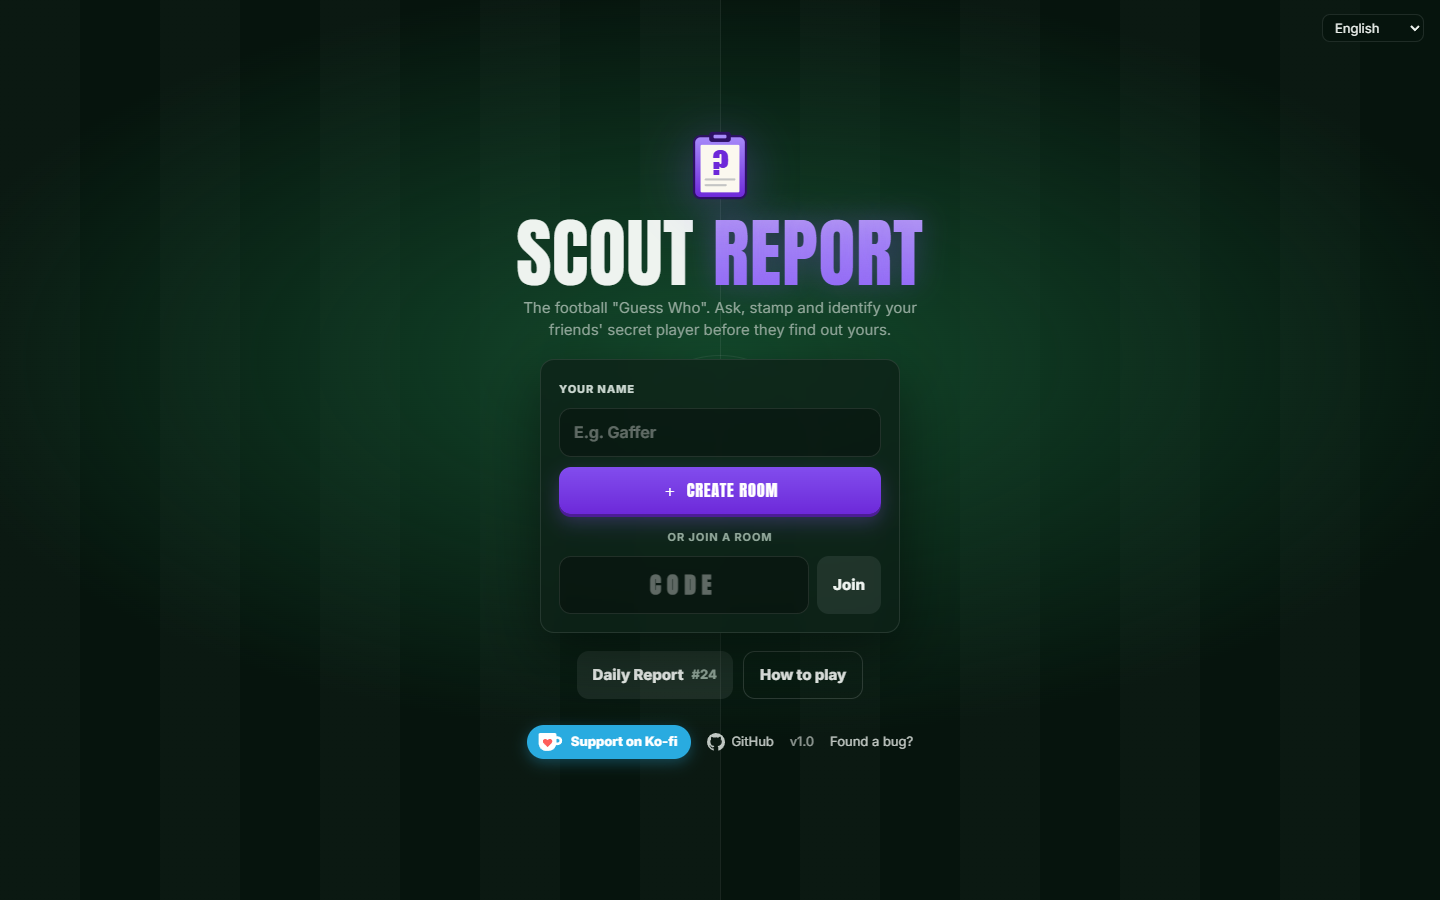
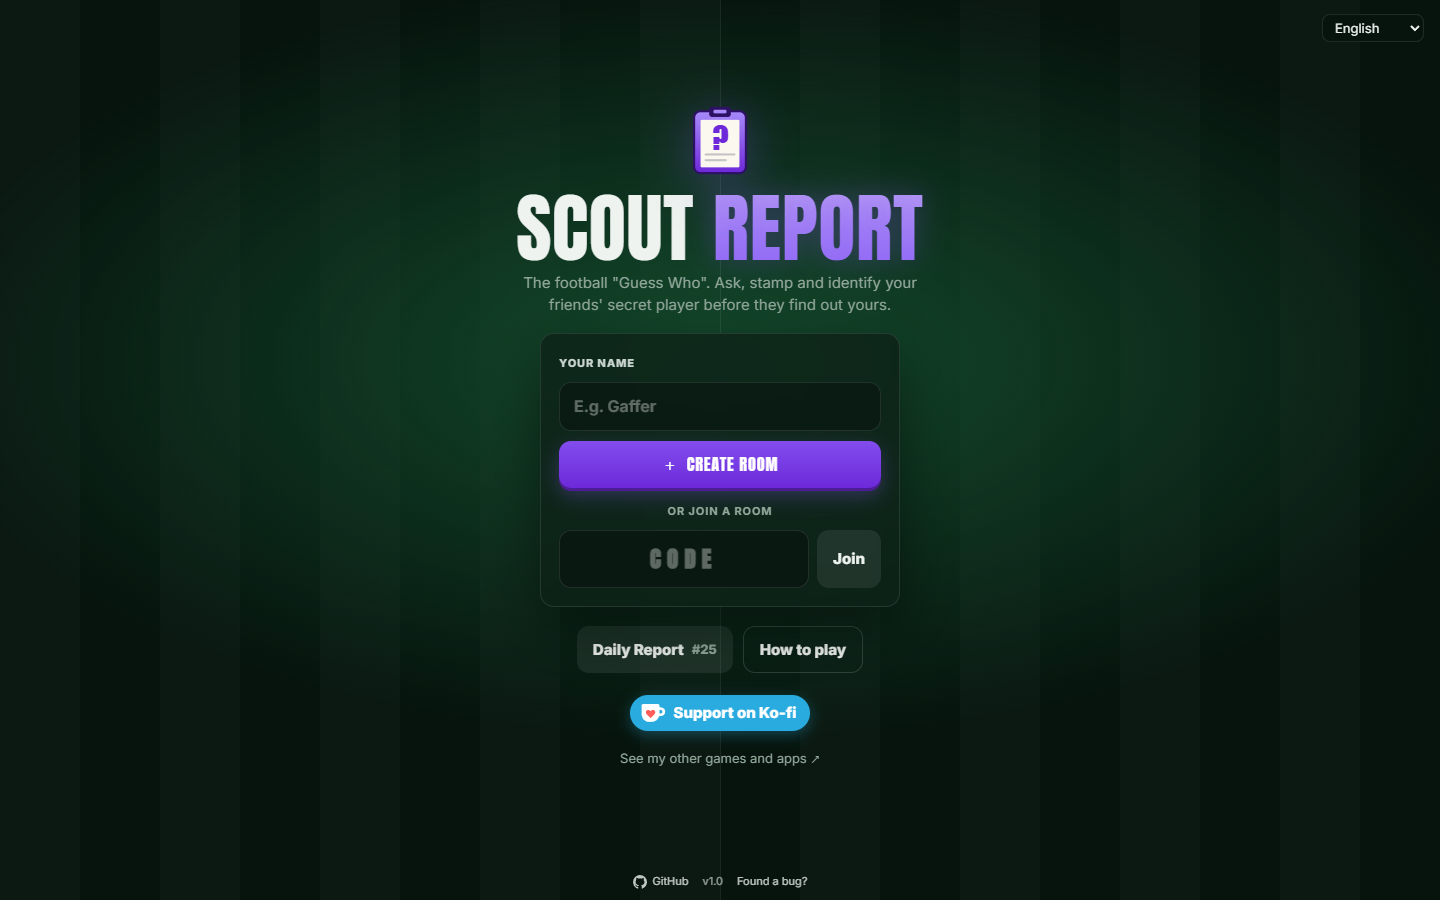
Menu inicial: Ko-fi sozinho, link dos outros jogos e rodapé colado ao fundo
O botão do Ko-fi fica centrado por baixo dos botões principais, com a linha
"Vê os meus outros jogos e apps ↗" (bacoinz.github.io) a seguir. O rodapé (GitHub,
versão, bugs) passa a uma linha pequena colada ao fundo do ecrã.

diff --git a/jogo/public/index.html b/jogo/public/index.html
@@ -61,9 +61,12 @@
       <a id="btn-dia" class="btn btn-fantasma" href="/dia" data-rota>Relatório do Dia <span class="nota"></span></a>
       <button class="btn btn-contorno" type="button" data-abrir="dialogo-como">Como jogar</button>
     </div>
-    <footer class="rodape-inicio">
+    <div class="apoio-inicio">
       <a class="botao-kofi" href="https://ko-fi.com/bacoinz" target="_blank" rel="noopener"><svg viewBox="0 0 32 24" width="26" height="20" aria-hidden="true"><path fill="#fff" d="M2 2.5C2 1.7 2.7 1 3.5 1h19c.8 0 1.5.7 1.5 1.5V5h1.6C28.6 5 31 7.4 31 10.4s-2.4 5.4-5.4 5.4H23.6C22.4 19.9 18.7 23 14.3 23h-3C6.1 23 2 18.9 2 13.7V2.5zm22 5.7v4.4h1.6c1.2 0 2.2-1 2.2-2.2s-1-2.2-2.2-2.2H24z"/><path fill="#ff5e5b" d="M13 18.2l-4.6-4.3C6.6 12.2 6.9 9.3 9 8.4c1.4-.6 2.9 0 4 1.2 1.1-1.2 2.6-1.8 4-1.2 2.1.9 2.4 3.8.6 5.5L13 18.2z"/></svg><span>Apoiar no Ko-fi</span></a>
-      <a class="ligacao-github" href="https://github.com/bacoinz/scout-report" target="_blank" rel="noopener"><svg viewBox="0 0 16 16" width="18" height="18" aria-hidden="true"><path fill="currentColor" d="M8 0C3.58 0 0 3.58 0 8c0 3.54 2.29 6.53 5.47 7.59.4.07.55-.17.55-.38 0-.19-.01-.82-.01-1.49-2.01.37-2.53-.49-2.69-.94-.09-.23-.48-.94-.82-1.13-.28-.15-.68-.52-.01-.53.63-.01 1.08.58 1.23.82.72 1.21 1.87.87 2.33.66.07-.52.28-.87.51-1.07-1.78-.2-3.64-.89-3.64-3.95 0-.87.31-1.59.82-2.15-.08-.2-.36-1.02.08-2.12 0 0 .67-.21 2.2.82.64-.18 1.32-.27 2-.27.68 0 1.36.09 2 .27 1.53-1.04 2.2-.82 2.2-.82.44 1.1.16 1.92.08 2.12.51.56.82 1.27.82 2.15 0 3.07-1.87 3.75-3.65 3.95.29.25.54.73.54 1.48 0 1.07-.01 1.93-.01 2.2 0 .21.15.46.55.38A8.013 8.013 0 0016 8c0-4.42-3.58-8-8-8z"/></svg><span>GitHub</span></a>
+      <a class="outros-jogos" href="https://bacoinz.github.io/" target="_blank" rel="noopener">Vê os meus outros jogos e apps <span aria-hidden="true">↗</span></a>
+    </div>
+    <footer class="rodape-inicio">
+      <a class="ligacao-github" href="https://github.com/bacoinz/scout-report" target="_blank" rel="noopener"><svg viewBox="0 0 16 16" width="14" height="14" aria-hidden="true"><path fill="currentColor" d="M8 0C3.58 0 0 3.58 0 8c0 3.54 2.29 6.53 5.47 7.59.4.07.55-.17.55-.38 0-.19-.01-.82-.01-1.49-2.01.37-2.53-.49-2.69-.94-.09-.23-.48-.94-.82-1.13-.28-.15-.68-.52-.01-.53.63-.01 1.08.58 1.23.82.72 1.21 1.87.87 2.33.66.07-.52.28-.87.51-1.07-1.78-.2-3.64-.89-3.64-3.95 0-.87.31-1.59.82-2.15-.08-.2-.36-1.02.08-2.12 0 0 .67-.21 2.2.82.64-.18 1.32-.27 2-.27.68 0 1.36.09 2 .27 1.53-1.04 2.2-.82 2.2-.82.44 1.1.16 1.92.08 2.12.51.56.82 1.27.82 2.15 0 3.07-1.87 3.75-3.65 3.95.29.25.54.73.54 1.48 0 1.07-.01 1.93-.01 2.2 0 .21.15.46.55.38A8.013 8.013 0 0016 8c0-4.42-3.58-8-8-8z"/></svg><span>GitHub</span></a>
       <span class="versao">v1.0</span>
       <a class="ligacao-bug" href="https://github.com/bacoinz/scout-report/issues/new/choose" target="_blank" rel="noopener">Encontraste um bug?</a>
     </footer>

diff --git a/jogo/public/css/app.css b/jogo/public/css/app.css
@@ -1223,14 +1223,35 @@ a.btn-barra {
   top: 14px;
   right: 16px;
 }
+/* O Ko-fi sozinho e centrado por baixo dos botões, com o link dos outros jogos a seguir. */
+.apoio-inicio {
+  display: flex;
+  flex-direction: column;
+  align-items: center;
+  gap: 18px;
+  margin-top: 4px;
+}
+.outros-jogos {
+  font-size: 13px;
+  color: var(--muted);
+  text-decoration: none;
+}
+.outros-jogos:hover {
+  color: inherit;
+  text-decoration: underline;
+}
+/* O rodapé cola-se ao fundo do ecrã inicial, numa só linha pequena. */
 .rodape-inicio {
+  position: absolute;
+  left: 0;
+  right: 0;
+  bottom: 10px;
   display: flex;
   flex-wrap: wrap;
   align-items: center;
   justify-content: center;
-  gap: 10px 16px;
-  margin-top: 8px;
-  font-size: 13px;
+  gap: 4px 14px;
+  font-size: 11px;
 }
 .botao-kofi {
   display: inline-flex;
@@ -1268,6 +1289,7 @@ a.btn-barra {
 }
 #ecra-inicio {
   position: relative;
+  padding-bottom: 56px;
 }
 /* No menu do jogo: o idioma numa linha, como os outros itens. */
 .menu-idioma {

diff --git a/jogo/public/js/ingles.js b/jogo/public/js/ingles.js
@@ -35,6 +35,7 @@ export const PARES = [
   ['Como jogar', 'How to play'],
   ['Apoiar no Ko-fi', 'Support on Ko-fi'],
   ['Encontraste um bug?', 'Found a bug?'],
+  ['Vê os meus outros jogos e apps', 'See my other games and apps'],
   ['Idioma', 'Language'],
   ['Fechar', 'Close'],
   ['Sala', 'Room'],
